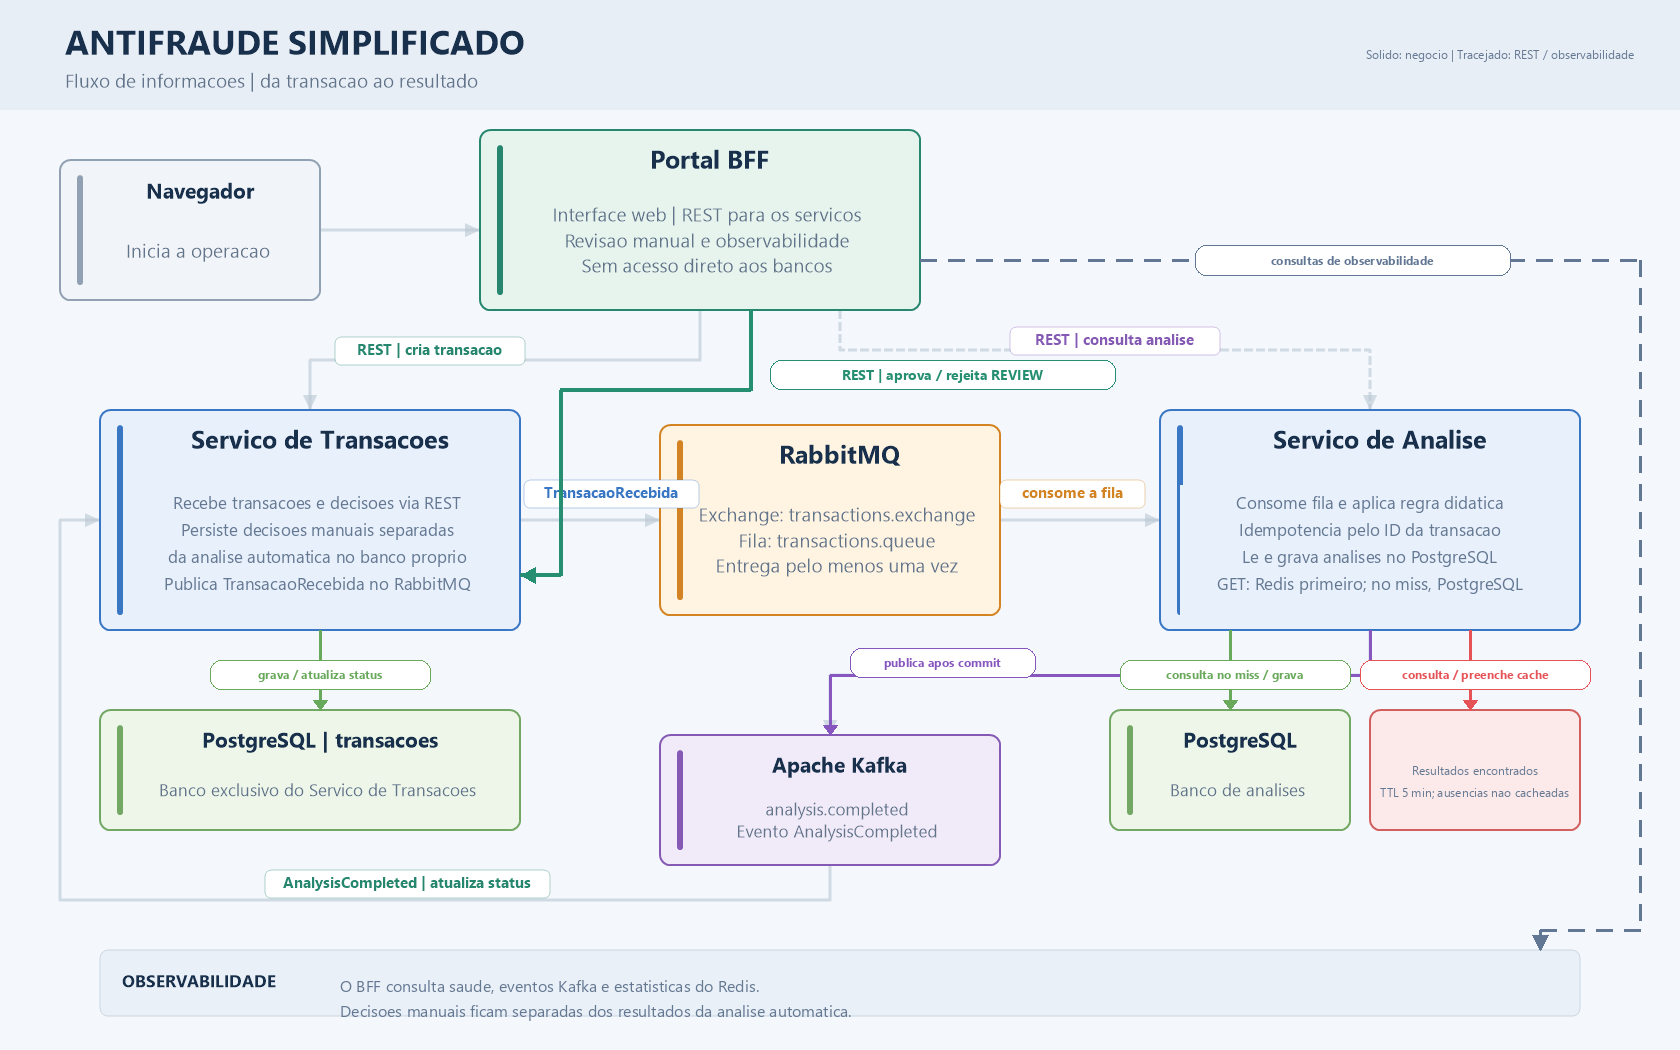
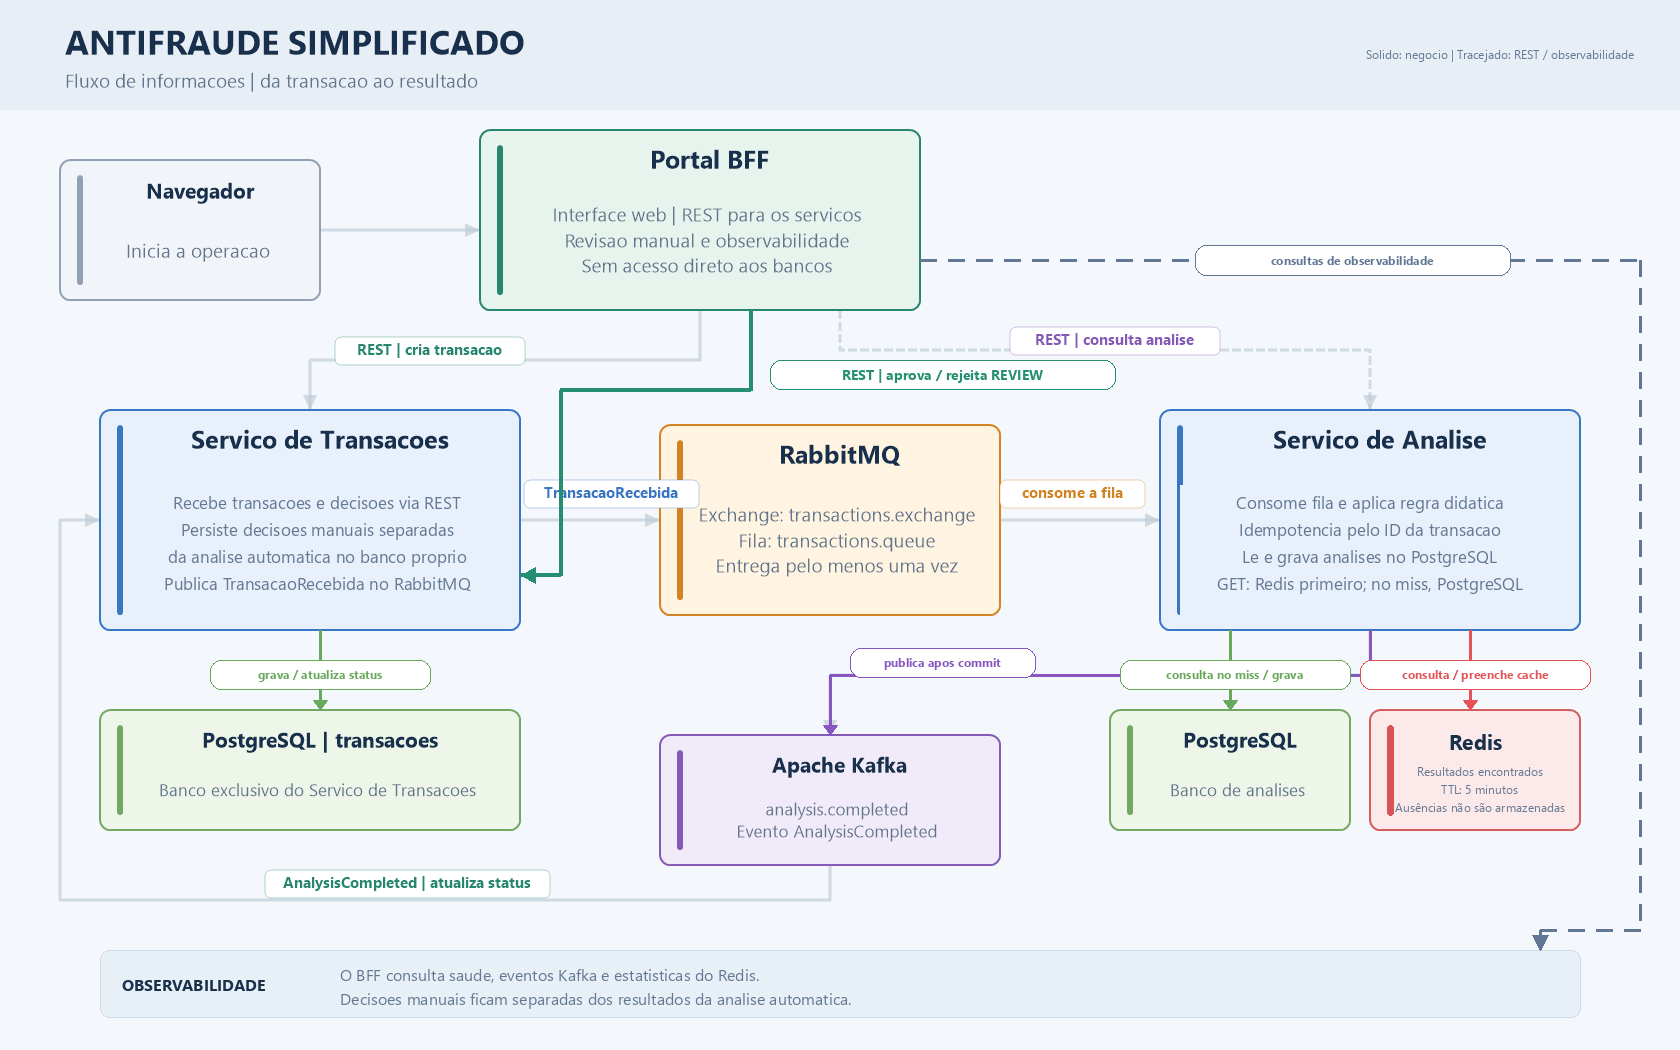
docs: destaca etapas na animacao do fluxo

Changed region(s): [[0.1857, 0.9143, 0.5262, 0.9752], [0.8048, 0.701, 0.9286, 0.7924], [0.0619, 0.9143, 0.1548, 0.9448]]

diff --git a/README.md b/README.md
@@ -25,7 +25,7 @@ Projeto didático individual para demonstrar um portal web com BFF, dois microse
 <details>
 <summary>Assistir à animação do fluxo de informações</summary>
 
-![Animação do fluxo de informações, da transação à atualização do resultado](docs/assets/fluxo-informacoes.gif)
+![Animação do fluxo de informações com setas e legendas para cada etapa](docs/assets/fluxo-informacoes.gif)
 </details>
 
 <details>
